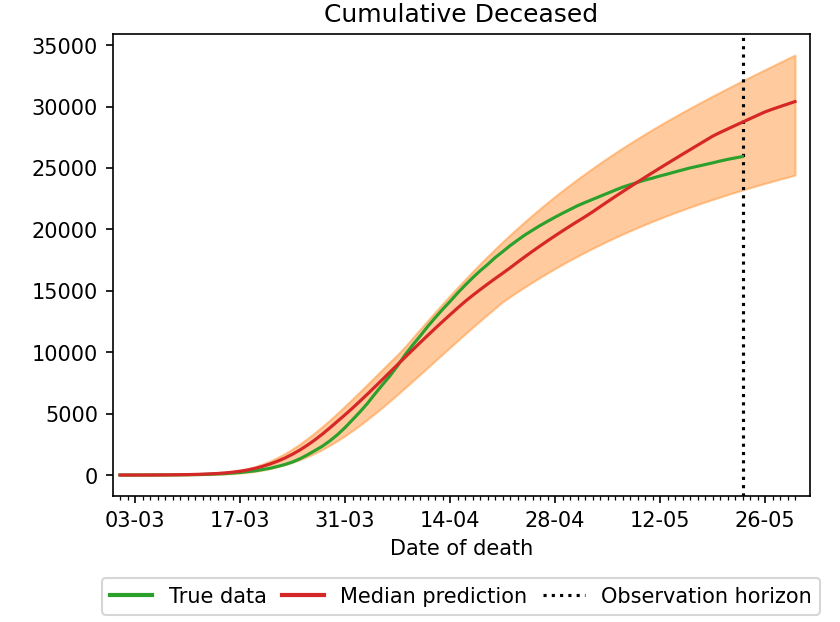
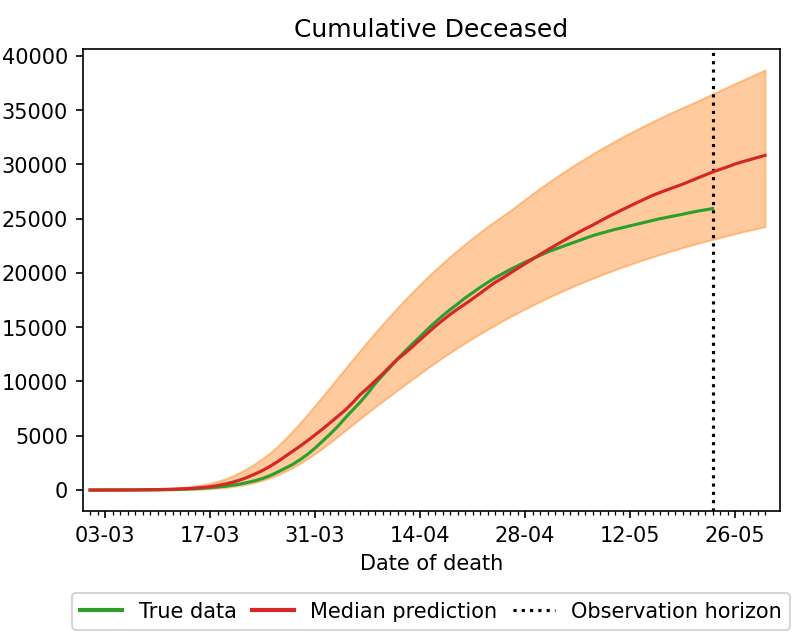
Update website

Changed region(s): [[0.0, 0.0, 0.958, 1.0], [0.7417, 0.2138, 0.7726, 0.2444]]

diff --git a/docs/searchindex.js b/docs/searchindex.js
@@ -1,1 +1,1 @@
-Search.setIndex({docnames:["Data","FAQ","Inference","Model","Prediction","index"],envversion:{"sphinx.domains.c":2,"sphinx.domains.changeset":1,"sphinx.domains.citation":1,"sphinx.domains.cpp":2,"sphinx.domains.index":1,"sphinx.domains.javascript":2,"sphinx.domains.math":2,"sphinx.domains.python":2,"sphinx.domains.rst":2,"sphinx.domains.std":1,"sphinx.ext.todo":2,"sphinx.ext.viewcode":1,sphinx:56},filenames:["Data.rst","FAQ.rst","Inference.rst","Model.rst","Prediction.rst","index.rst"],objects:{},objnames:{},objtypes:{},terms:{"10th":[],"11th":[],"13th":[],"15th":[],"16th":[],"18th":0,"1st":0,"20023754v2":[],"20th":1,"23rd":5,"9th":[],"case":[1,4],"catch":[1,3,4],"final":[1,3],"function":2,"int":2,"long":[1,4],"new":[],"public":5,"short":[],"true":[1,2],"while":[3,4],For:[2,4],Has:[],NHS:[0,1],ODEs:3,ONS:[0,1],The:[0,1,2,3,4,5],Then:[],Using:1,_assumpt:[],abc:[1,2],abcpi:[1,2],abl:[1,3,4],about:[0,4,5],abov:[0,1,2],abroad:3,absenc:2,accept:2,access:3,accord:[0,3],account:[0,1],accur:1,accuraci:1,act:5,action:[],activ:[],actual:[1,4],adam:1,add:1,addit:0,admit:[1,4],affect:[],after:3,afterward:3,again:3,age:[0,5],aggreg:0,ago:[],aim:5,algorithm:2,all:[1,3],allow:[1,2],along:3,alpha:3,alpha_:3,also:[0,1],alwai:[],amount:[1,2],android:0,ani:3,announc:[],anoth:[],answer:5,anymor:4,anyon:1,anywai:[1,4],anywher:1,appli:1,approach:[],approxim:[1,2,3,4],april:1,area:[1,4],aris:1,articl:[],assist:[],assum:[1,3],assumpt:4,asymptomat:[],attent:3,author:[],avail:[0,1],averag:3,awar:1,axi:[],back:[],band:[0,4],base:[1,2,3,5],basic:[],bayesian:[1,2,4],bbc:0,becam:[],becom:3,bed:[1,4],been:[],befor:3,being:[0,1,3,4],below:[],besid:0,best:[2,5],beta:3,better:1,between:[1,2,3],blur:[],both:[],brought:3,c_i:[],c_uk:[],calibr:[1,2,5],call:1,can:[3,4],cannot:[1,4],capabl:[],capac:[],care:[],categori:3,cdot:2,censu:1,central:1,certain:[],chang:[0,1,4],check:[0,1,3,4],children:3,choic:1,choos:3,citizen:[],clear:[],clearli:1,clinic:3,close:[1,2,3],closur:0,code:[],collect:[],com:[],combin:0,come:[],comment:[],commonli:1,commut:1,compar:[],compart:[1,3],compartment:[1,3],complex:[],compli:[],complianc:[],compos:3,comput:[1,2,4],computation:[],concentr:2,conclud:[],conclus:[],condit:[1,3,4],conduct:1,confer:0,confirm:[1,2],conjuct:2,connect:3,consid:[0,1,3,4],constant:[1,4],construct:[],contact:[0,1,3],contain:1,content:[],continu:[],contribut:3,control:5,converg:2,convers:0,coronaviru:[],correspond:3,correspondingli:[],cost:2,could:1,count:[],cours:[1,2,4],covid:0,creat:[1,5],crisi:5,critic:[],cross:[],cumul:[],cumulative_confirm:[],current:1,curv:[],cut:5,d_c:3,d_d:3,d_l:3,d_r:3,dai:[1,3,4],daili:[0,1,2,5],daily_confirm:[],dant:1,data:[1,3,4,5],dataset:[0,2],dataspac:2,date:[1,4],dd_i:3,de_i:3,death:[0,1,3,5],debat:[1,4],deceas:[2,3],decid:5,declar:0,decreas:2,defin:[2,3],denot:[2,3,4],densiti:2,depart:[],depend:[3,4],dept:1,describ:[1,3],descript:3,design:1,detail:[0,1,4],determinist:1,develop:1,devic:0,diagnos:[1,3],diagnosi:[],die:[],differ:3,differenti:3,direct:[],directli:3,discours:5,discuss:[0,1],diseas:[0,1,3,4,5],distinct:[],distribut:[0,2,3,4],divid:1,don:[],done:4,dot:4,down:[],dpag_imag:[],dpd_imag:[],dr_i:3,draft:[],draw:2,ds_i:3,due:1,dutta:1,dying:[],dynam:[0,1,3,4],e_i:3,each:[0,1,3],earli:[],edg:5,effect:[0,1,3],effici:2,either:[],eldelri:[],element:1,els:1,emerg:1,end:1,england:[0,1,3],english:1,epdiem:[],epidem:[0,1,2,4,5],epsilon:2,equal:[],equat:3,error:[],especi:[],essenti:[2,3],estim:[0,1,4],etc:1,evalu:[],even:[1,4],eventu:1,everi:1,evolut:5,exact:1,exampl:[],except:3,exit:1,exp:[],expect:[1,4],expertis:[],explain:[1,3],explan:[],explicitli:[1,4],exploit:[],expos:3,extend:[],extens:1,extent:1,extrem:1,fact:1,fair:1,famili:[],featur:1,fill:0,finer:0,first:4,fit:[1,4],five:[],fix:[2,3],flight:3,fluid:1,focus:[],follow:[0,2,3,4],forecast:1,format:[],found:[],four:[1,3],frac:3,free:2,frequenc:3,from:[0,2,3,4],full:[],fundament:2,further:[1,3],futur:1,gamma_:3,gamma_r:3,gener:2,geograph:0,get:[],github:[],give:0,given:1,global:1,going:3,gome:1,googl:[0,1,3],gov:[],govern:0,graph:1,great:[1,4],greatest:1,group:[0,3],guarante:2,guidanc:[],had:[],handl:1,happen:[0,3,4],happi:1,hard:1,harder:1,has:1,have:4,health:1,hear:1,help:[3,5],henc:3,here:[0,1,2,3],high:2,higher:[],home:3,hope:1,horizon:[1,4],horizont:4,hospit:[0,1,3,5],hospitalis:1,how:[0,5],howev:[0,1,4],hpd:[],http:[],i_c:[],i_i:3,i_j:3,icu:[1,4],ihm:[],imag:[],img:[],impact:[0,1,4],implement:0,impos:[],improv:1,inabl:1,includ:[],incom:3,increas:2,incub:3,independ:[],index:[],indic:4,individu:[2,3],infect:[1,2,3,4],infecti:3,infer:5,inform:[0,1],initi:3,inspir:[],instanc:[0,1,3],instead:[1,3],institut:[],integr:1,intens:[],interact:1,interest:[],interpret:[],intract:2,introduc:0,invalid:1,isol:[1,3,4],issu:[],iter:2,its:[],jointli:2,journal:[],june:[],kalis:1,kappa:3,kei:4,kept:[1,4],kid:0,kiesha:1,kind:1,klepac:0,know:[0,1],known:[],kucharski:1,lab:[],larg:[1,2,4],last:[],latent:3,later:[],latest:1,latter:0,learn:1,learnt:1,least:[],leq:2,less:[1,2,4],level:[],leverag:[],librari:2,like:1,likelihood:2,line:4,link:[],local:1,locat:3,lock:[],lockdown:[0,1,3],logist:3,longer:1,look:2,lorenzo:1,lot:4,machin:[],mai:[1,5],main:1,major:[],make:[0,1],maker:5,mani:[0,1],march:0,mass:2,match:0,materi:0,math:[],mathbb:2,mathbf:2,mathcal:2,mathemat:1,matric:0,matrix:[0,3],matter:[1,4],mean:3,measur:[0,1,2,4],media:5,median:4,medic:3,medrxiv:[],meet:1,mention:[],metapopul:[],method:1,metric:2,mid:0,midpoint:[],minist:0,miss:0,misspecifi:1,mitig:2,mix:1,mobil:[0,1,3],model:[0,2,4,5],momr:[],more:[0,1,2,4],moreov:[0,1,3,4],most:[0,1],mostli:[1,3],motiv:[],move:3,much:[1,4],multipli:[],multistag:[],n_j:3,name:1,nation:1,natur:1,need:[0,1,2,3,4],neglect:[],next:3,nil:[],nobodi:1,nois:[],nonlinear:[],note:4,notic:[],nottingham:1,now:[],number:[0,1,2,3,5],obs:2,observ:[1,2,4],obtain:[0,2],occup:[1,4],occur:3,occurr:[],offic:1,offici:0,old:0,older:[],oldest:3,omega:[],onc:[1,4],one:[1,2,3],ones:[0,3],onli:[],ons:[],optim:1,orang:[1,4],order:[0,3],ordinari:3,org:[],other:[2,3],otherwis:2,our:[0,3,4],out:[],outcom:[1,3],over:[0,3],overal:1,overli:[],oxford:1,pacchiardi:1,page:1,pair:2,pandem:[0,5],paper:0,paradigm:1,parallel:2,paramet:[0,1,2,3],parametr:3,part:[1,4],partial:1,passeng:3,patient:3,pattern:1,pcbi:[],peak:[],peopl:[0,1,3],peoplepopulationandcommun:[],per:4,percent:1,perfect:[],perfectli:1,perform:2,period:3,person:[1,4],persona:[],phase:4,phe:1,phenomena:1,phi:3,physic:0,pillar:[],place:[1,4],plan:[],pleas:[0,1,4],plo:[],ploscompbiol:[],plot:[],png:[],pointwis:[],polici:5,polymod:0,popul:[0,1,3,4],populationandmigr:[],populationestim:[],populationestimatesforukenglandandwalesscotlandandnorthernireland:[],posit:[1,4],possibl:[1,3],posterior:[],power:1,predict:[2,4,5],prem:[1,3],present:[0,1,3],presenti:[],press:0,prime:0,principl:2,prior:[0,2],probabl:[1,2,3],procedur:[],process:[],profil:[],progress:5,project:[0,5],proport:2,propos:[],provid:[0,1],publicli:[],put:[],python:2,quad:[],quantif:2,quantiti:[],question:5,quit:1,rang:[1,2],rate:[1,3,4],rather:[],reach:3,readabl:[],real:1,realiti:1,realiz:[],reason:[],recent:[0,1],record:[],recov:3,recoveri:3,reduc:3,reduct:3,ref:[],refer:[],reflect:[0,1,3],regard:[],region:[],regist:[],regularli:1,reject:2,rel:0,relat:0,reli:1,remain:[1,4],remark:[],reopen:1,report:[0,4],repositori:[],repres:3,reproduct:[],requir:0,respect:3,respond:[],restrict:[0,1,4],result:[3,5],retail:1,rho:3,rho_i:3,right:[],ritabrata:1,rout:1,s_i:3,sadli:[],said:1,same:1,sampl:2,satisfi:1,satur:[1,4],sc1:3,sc2:3,scenario:3,scheme:2,school:[0,1,3],scienc:[1,5],scientif:2,second:1,see:1,seed:3,seen:[],self:[],separ:0,servic:1,set:1,seven:[],sever:1,shade:[1,4],shortli:[],show:1,shown:1,significantli:[],sim:2,similar:1,similari:3,similarli:3,simplif:1,simplifi:[],simul:2,singular:[],situat:1,size:0,slightli:[],slope:[],smaller:2,smoother:[],social:3,softwar:1,some:[1,3],sort:[],sourc:[1,4,5],specif:1,specimen:[],spend:[],split:3,spread:[3,5],stai:[],stand:3,start:[1,3],state:3,statist:1,step:2,still:[1,3,4],strategi:[1,3],stratif:0,structur:5,studi:0,sub:3,subclin:3,suggest:1,suit:[],suitabl:0,sum:[],sum_j:3,support:0,susana:1,suscept:[1,3,4],symptom:1,symptomat:[],synthet:2,tab1:[],tab2:[],tab:[],tailor:1,take:[0,1,3],tan:[],tangent:[],td_imag:[],techniqu:[],test:[1,4],than:0,thei:[0,1,3,4],them:[0,2,3],themselv:[],theori:[],thereaft:[],therefor:[0,1,3],theta:2,thi:[0,2,3,4,5],thig:[],thing:[],third:1,those:0,thought:1,three:1,threshold:2,through:3,thu:[1,2],time:[1,3,4,5],timelin:0,titl:[],too:[1,4],total:4,transform:3,transit:3,transmiss:0,transmit:[1,4],transpar:5,tri:1,truth:1,tune:0,twice:[1,4],two:[0,3,4],type:[],uncertainti:[2,4],under:4,undergo:3,underli:1,understand:[0,1],understood:[],univers:1,until:1,updat:[1,5],use:[0,1,2,4],used:[0,1,3,4],useful:1,using:[2,3],valu:[1,2,3,4],variat:[],veri:[],versu:4,vertic:4,visibl:1,visual:3,wai:1,warwick:1,webpag:[],websit:1,week:[],weekdai:0,weekend:0,well:1,were:[1,4],what:[],when:[1,2,3,4],whenev:[],where:[1,2,3],wherea:1,which:[1,2,3,4],who:3,whole:[1,3],whose:0,why:[],wider:[],width:4,wilkinson:[],within:1,work:[0,2,3,5],worker:[1,3],workplac:3,would:[0,1,4],written:2,www:[],x_0:3,x_i:[],year:0,yet:[],you:1,younger:0,youngest:3},titles:["Public Data Sources","Questions and Answers (for the public and media)","Inference","Epidemic Model","Inference results for England (Updated on 23rd May)","COVID-19 in England"],titleterms:{"10th":[],"11th":[],"23rd":4,"3rd":[],"4rd":3,"case":[],"import":[],"public":[0,1],Age:4,Are:1,about:1,accord:[],age:[3,4],ani:1,answer:1,april:[],assumpt:1,base:[],been:1,behind:1,can:1,caveat:1,conclus:[],confirm:[],correct:1,covid:[1,5],daili:[],data:0,death:4,deceas:[],differ:1,doe:1,dure:[],each:4,england:[4,5],epidem:3,estim:[],evolut:[],first:1,free:[],from:1,gener:1,get:1,group:4,have:1,hospit:4,how:1,infect:[],infer:[2,4],interpret:[],likelihood:[],look:[],lot:[],made:1,mai:4,mean:1,media:1,model:[1,3],more:[],most:[],number:4,other:1,our:1,pandem:[],paramet:[],peopl:4,phase:1,predict:1,probabl:4,project:1,question:1,r_0:[],research:1,result:4,scari:[],sei:3,should:[],sourc:0,specif:4,spread:1,structur:3,studi:1,sure:1,than:[],thi:1,total:[],touch:1,transit:[],uncertainti:1,updat:4,what:1,why:[],you:[],your:[]}})
+Search.setIndex({docnames:["Data","FAQ","Inference","Model","Prediction","index"],envversion:{"sphinx.domains.c":2,"sphinx.domains.changeset":1,"sphinx.domains.citation":1,"sphinx.domains.cpp":2,"sphinx.domains.index":1,"sphinx.domains.javascript":2,"sphinx.domains.math":2,"sphinx.domains.python":2,"sphinx.domains.rst":2,"sphinx.domains.std":1,"sphinx.ext.todo":2,"sphinx.ext.viewcode":1,sphinx:56},filenames:["Data.rst","FAQ.rst","Inference.rst","Model.rst","Prediction.rst","index.rst"],objects:{},objnames:{},objtypes:{},terms:{"10th":[],"11th":[],"13th":[],"15th":[],"16th":[],"18th":0,"1st":0,"20023754v2":[],"20th":[],"23rd":5,"9th":[],"case":[1,4],"catch":[1,3,4],"final":[1,3],"function":2,"int":2,"long":[1,4],"new":[],"public":5,"short":[],"true":[1,2],"while":[3,4],For:[2,4],Has:[],NHS:[0,1],ODEs:3,ONS:[0,1],The:[0,1,2,3,4,5],Then:[],Using:1,_assumpt:[],abc:[1,2],abcpi:[1,2],abl:[1,3,4],about:[0,4,5],abov:[0,1,2],abroad:3,absenc:2,accept:2,access:3,accord:[0,3],account:[0,1],accur:1,accuraci:1,act:5,action:[],activ:[],actual:[1,4],adam:1,add:1,addit:0,admit:[1,4],affect:[],after:3,afterward:3,again:3,age:[0,5],aggreg:0,ago:[],aim:5,algorithm:2,all:[1,3],allow:[1,2],along:3,alpha:3,alpha_:3,also:[0,1],alwai:[],amount:[1,2],android:0,ani:3,announc:[],anoth:[],answer:5,anymor:4,anyon:1,anywai:[1,4],anywher:1,appli:1,approach:[],approxim:[1,2,3,4],april:[],area:[1,4],aris:1,articl:[],assist:[],assum:[1,3],assumpt:4,asymptomat:[],attent:3,author:[],avail:[0,1],averag:3,awar:1,axi:[],back:[],band:[0,4],base:[1,2,3,5],basic:[],bayesian:[1,2,4],bbc:0,becam:[],becom:3,bed:[1,4],been:[],befor:3,being:[0,1,3,4],below:[],besid:0,best:[2,5],beta:3,better:1,between:[1,2,3],blur:[],both:[],brought:3,c_i:[],c_uk:[],calibr:[1,2,5],call:1,can:[3,4],cannot:[1,4],capabl:[],capac:[],care:[],categori:3,cdot:2,censu:1,central:1,certain:[],chang:[0,1,4],check:[0,1,3,4],children:3,choic:1,choos:3,citizen:[],clear:[],clearli:1,clinic:3,close:[1,2,3],closur:0,code:[],collect:[],com:[],combin:0,come:[],comment:[],commonli:1,commut:1,compar:[],compart:[1,3],compartment:[1,3],complex:[],compli:[],complianc:[],compos:3,comput:[1,2,4],computation:[],concentr:2,conclud:[],conclus:[],condit:[1,3,4],conduct:1,confer:0,confirm:[1,2],conjuct:2,connect:3,consid:[0,1,3,4],constant:[1,4],construct:[],contact:[0,1,3],contain:1,content:[],continu:[],contribut:3,control:5,converg:2,convers:0,coronaviru:[],correspond:3,correspondingli:[],cost:2,could:1,count:[],cours:[1,2,4],covid:0,creat:[1,5],crisi:5,critic:[],cross:[],cumul:[],cumulative_confirm:[],current:1,curv:[],cut:5,d_c:3,d_d:3,d_l:3,d_r:3,dai:[1,3,4],daili:[0,1,2,5],daily_confirm:[],dant:1,data:[1,3,4,5],dataset:[0,2],dataspac:2,date:[1,4],dd_i:3,de_i:3,death:[0,1,3,5],debat:[1,4],deceas:[2,3],decid:5,declar:0,decreas:2,defin:[2,3],denot:[2,3,4],densiti:2,depart:[],depend:[3,4],dept:1,describ:[1,3],descript:3,design:1,detail:[0,1,4],determinist:1,develop:1,devic:0,diagnos:[1,3],diagnosi:[],die:[],differ:3,differenti:3,direct:[],directli:3,discours:5,discuss:[0,1],diseas:[0,1,3,4,5],distinct:[],distribut:[0,2,3,4],divid:1,don:[],done:4,dot:4,down:[],dpag_imag:[],dpd_imag:[],dr_i:3,draft:[],draw:2,ds_i:3,due:1,dutta:1,dying:[],dynam:[0,1,3,4],e_i:3,each:[0,1,3],earli:[],edg:5,effect:[0,1,3],effici:2,either:[],eldelri:[],element:1,els:1,emerg:1,end:1,england:[0,1,3],english:1,epdiem:[],epidem:[0,1,2,4,5],epsilon:[],equal:[],equat:3,error:[],especi:[],essenti:[2,3],estim:[0,1,4],etc:1,evalu:[],even:[1,4],eventu:1,everi:1,evolut:5,exact:1,exampl:[],except:3,exit:1,exp:[],expect:[1,4],expertis:[],explain:[1,3],explan:[],explicitli:[1,4],exploit:[],expos:3,extend:[],extens:1,extent:1,extrem:1,fact:1,fair:1,famili:[],featur:1,fill:0,finer:0,first:4,fit:[1,4],five:[],fix:[2,3],flight:3,fluid:1,focus:[],follow:[0,2,3,4],forecast:1,format:[],found:[],four:[1,3],frac:3,free:2,frequenc:3,from:[0,2,3,4],full:[],fundament:2,further:[1,3],futur:1,gamma:2,gamma_:3,gamma_r:3,gener:2,geograph:0,get:[],github:[],give:0,given:1,global:1,going:3,gome:1,googl:[0,1,3],gov:[],govern:0,graph:1,great:[1,4],greatest:1,group:[0,3],guarante:2,guidanc:[],had:[],handl:1,happen:[0,3,4],happi:1,hard:1,harder:1,has:1,have:4,health:1,hear:1,help:[3,5],henc:3,here:[0,1,2,3],high:2,higher:[],home:3,hope:1,horizon:[1,4],horizont:4,hospit:[0,1,3,5],hospitalis:1,how:[0,5],howev:[0,1,4],hpd:[],http:[],i_c:[],i_i:3,i_j:3,icu:[1,4],ihm:[],imag:[],img:[],impact:[0,1,4],implement:0,impos:[],improv:1,inabl:1,includ:[],incom:3,increas:2,incub:3,independ:[],index:[],indic:4,individu:[2,3],infect:[1,2,3,4],infecti:3,infer:5,inform:[0,1],initi:3,inspir:[],instanc:[0,1,3],instead:[1,3],institut:[],integr:1,intens:[],interact:1,interest:[],interpret:[],intract:2,introduc:0,invalid:1,isol:[1,3,4],issu:[],iter:2,its:[],jointli:2,journal:[],june:1,kalis:1,kappa:3,kei:4,kept:[1,4],kid:0,kiesha:1,kind:1,klepac:0,know:[0,1],known:[],kucharski:1,lab:[],larg:[1,2,4],last:[],latent:3,later:[],latest:1,latter:0,learn:1,learnt:1,least:[],leq:2,less:[1,2,4],level:[],leverag:[],librari:2,like:1,likelihood:2,line:4,link:[],local:1,locat:3,lock:[],lockdown:[0,1,3],logist:3,longer:1,look:2,lorenzo:1,lot:4,machin:[],mai:[1,5],main:1,major:[],make:[0,1],maker:5,mani:[0,1],march:0,mass:2,match:0,materi:0,math:[],mathbb:2,mathbf:2,mathcal:2,mathemat:1,matric:0,matrix:[0,3],matter:[1,4],mean:3,measur:[0,1,2,4],media:5,median:4,medic:3,medrxiv:[],meet:1,mention:[],metapopul:[],method:1,metric:2,mid:[0,1],midpoint:[],minist:0,miss:0,misspecifi:1,mitig:2,mix:1,mobil:[0,1,3],model:[0,2,4,5],momr:[],more:[0,1,2,4],moreov:[0,1,3,4],most:[0,1],mostli:[1,3],motiv:[],move:3,much:[1,4],multipli:[],multistag:[],n_j:3,name:1,nation:1,natur:1,need:[0,1,2,3,4],neglect:[],next:3,nil:[],nobodi:1,nois:[],nonlinear:[],note:4,notic:[],nottingham:1,now:[],number:[0,1,2,3,5],obs:2,observ:[1,2,4],obtain:[0,2],occup:[1,4],occur:3,occurr:[],offic:1,offici:0,old:0,older:[],oldest:3,omega:[],onc:[1,4],one:[1,2,3],ones:[0,3],onli:[],ons:[],optim:1,orang:[1,4],order:[0,3],ordinari:3,org:[],other:[2,3],otherwis:2,our:[0,3,4],out:[],outcom:[1,3],over:[0,3],overal:1,overli:[],oxford:1,pacchiardi:1,page:1,pair:2,pandem:[0,5],paper:0,paradigm:1,parallel:2,paramet:[0,1,2,3],parametr:3,part:[1,4],partial:1,passeng:3,patient:3,pattern:1,pcbi:[],peak:[],peopl:[0,1,3],peoplepopulationandcommun:[],per:4,percent:[],perfect:[],perfectli:1,perform:2,period:3,person:[1,4],persona:[],phase:4,phe:1,phenomena:1,phi:3,physic:0,pillar:[],place:[1,4],plan:[],pleas:[0,1,4],plo:[],ploscompbiol:[],plot:[],png:[],pointwis:[],polici:5,polymod:0,popul:[0,1,3,4],populationandmigr:[],populationestim:[],populationestimatesforukenglandandwalesscotlandandnorthernireland:[],posit:[1,4],possibl:[1,3],posterior:[],power:1,predict:[2,4,5],prem:[1,3],present:[0,1,3],presenti:[],press:0,prime:0,principl:2,prior:[0,2],probabl:[1,2,3],procedur:[],process:[],profil:[],progress:5,project:[0,5],proport:2,propos:[],provid:[0,1],publicli:[],put:[],python:2,quad:[],quantif:2,quantiti:[],question:5,quit:1,rang:[1,2],rate:[1,3,4],rather:[],reach:3,readabl:[],real:1,realiti:1,realiz:[],reason:[],recent:[0,1],record:[],recov:3,recoveri:3,reduc:3,reduct:3,ref:[],refer:[],reflect:[0,1,3],regard:[],region:[],regist:[],regularli:1,reject:2,rel:0,relat:0,reli:1,remain:[1,4],remark:[],reopen:1,report:[0,4],repositori:[],repres:3,reproduct:[],requir:0,respect:3,respond:[],restrict:[0,1,4],result:[3,5],retail:1,rho:3,rho_i:3,right:[],ritabrata:1,rout:1,s_i:3,sadli:[],said:1,same:1,sampl:2,satisfi:1,satur:[1,4],sc1:3,sc2:3,scenario:3,scheme:2,school:[0,1,3],scienc:[1,5],scientif:2,second:1,see:1,seed:3,seen:[],self:[],separ:0,servic:1,set:1,seven:[],sever:1,shade:[1,4],shortli:[],show:1,shown:1,significantli:[],sim:2,similar:1,similari:3,similarli:3,simplif:1,simplifi:[],simul:2,singular:[],situat:1,size:0,slightli:[],slope:[],smaller:2,smoother:[],social:3,softwar:1,some:[1,3],sort:[],sourc:[1,4,5],specif:1,specimen:[],spend:[],split:3,spread:[3,5],stai:[],stand:3,start:[1,3],state:3,statist:1,step:2,still:[1,3,4],strategi:[1,3],stratif:0,structur:5,studi:0,sub:3,subclin:3,suggest:1,suit:[],suitabl:0,sum:[],sum_j:3,support:0,susana:1,suscept:[1,3,4],symptom:1,symptomat:[],synthet:2,tab1:[],tab2:[],tab:[],tailor:1,take:[0,1,3],tan:[],tangent:[],td_imag:[],techniqu:[],test:[1,4],than:0,thei:[0,1,3,4],them:[0,2,3],themselv:[],theori:[],thereaft:[],therefor:[0,1,3],theta:2,thi:[0,2,3,4,5],thig:[],thing:[],third:1,those:0,thought:1,three:1,threshold:2,through:3,thu:[1,2],time:[1,3,4,5],timelin:0,titl:[],too:[1,4],total:4,transform:3,transit:3,transmiss:0,transmit:[1,4],transpar:5,tri:1,truth:1,tune:0,twice:[1,4],two:[0,3,4],type:[],uncertainti:[2,4],under:4,undergo:3,underli:1,understand:[0,1],understood:[],univers:1,until:1,updat:[1,5],use:[0,1,2,4],used:[0,1,3,4],useful:1,using:[2,3],valu:[1,2,3,4],variat:[],veri:[],versu:4,vertic:4,visibl:1,visual:3,wai:1,warwick:1,webpag:[],websit:1,week:[],weekdai:0,weekend:0,well:1,were:[1,4],what:[],when:[1,2,3,4],whenev:[],where:[1,2,3],wherea:1,which:[1,2,3,4],who:3,whole:[1,3],whose:0,why:[],wider:[],width:4,wilkinson:[],within:1,work:[0,2,3,5],worker:[1,3],workplac:3,would:[0,1,4],written:2,www:[],x_0:3,x_i:[],year:0,yet:[],you:1,younger:0,youngest:3},titles:["Public Data Sources","Questions and Answers (for the public and media)","Inference","Epidemic Model","Inference results for England (Updated on 23rd May)","COVID-19 in England"],titleterms:{"10th":[],"11th":[],"23rd":4,"3rd":[],"4rd":3,"case":[],"import":[],"public":[0,1],Age:4,Are:1,about:1,accord:[],age:[3,4],ani:1,answer:1,april:[],assumpt:1,base:[],been:1,behind:1,can:1,caveat:1,conclus:[],confirm:[],correct:1,covid:[1,5],daili:[],data:0,death:4,deceas:[],differ:1,doe:1,dure:[],each:4,england:[4,5],epidem:3,estim:[],evolut:[],first:1,free:[],from:1,gener:1,get:1,group:4,have:1,hospit:4,how:1,infect:[],infer:[2,4],interpret:[],likelihood:[],look:[],lot:[],made:1,mai:4,mean:1,media:1,model:[1,3],more:[],most:[],number:4,other:1,our:1,pandem:[],paramet:[],peopl:4,phase:1,predict:1,probabl:4,project:1,question:1,r_0:[],research:1,result:4,scari:[],sei:3,should:[],sourc:0,specif:4,spread:1,structur:3,studi:1,sure:1,than:[],thi:1,total:[],touch:1,transit:[],uncertainti:1,updat:4,what:1,why:[],you:[],your:[]}})

diff --git a/docs/Inference.html b/docs/Inference.html
@@ -44,12 +44,12 @@
 <ul class="simple">
 <li><p>Draw <span class="math notranslate nohighlight">\(\theta\)</span> from the prior <span class="math notranslate nohighlight">\(\pi(\theta)\)</span>.</p></li>
 <li><p>Simulate a synthetic dataset <span class="math notranslate nohighlight">\(\mathbf{x}^{sim}\)</span> from the simulator-based model <span class="math notranslate nohighlight">\(\mathcal{M}(\theta)\)</span>.</p></li>
-<li><p>Accept the parameter value <span class="math notranslate nohighlight">\(\theta\)</span> if <span class="math notranslate nohighlight">\(\mathbf{d}(\mathbf{x}^{sim},\mathbf{x}^{obs}) &lt; \epsilon\)</span>. Otherwise, reject <span class="math notranslate nohighlight">\(\theta\)</span>.</p></li>
+<li><p>Accept the parameter value <span class="math notranslate nohighlight">\(\theta\)</span> if <span class="math notranslate nohighlight">\(\mathbf{d}(\mathbf{x}^{sim},\mathbf{x}^{obs}) &lt; \gamma\)</span>. Otherwise, reject <span class="math notranslate nohighlight">\(\theta\)</span>.</p></li>
 </ul>
 <img alt="_images/ABC_rejection.png" src="_images/ABC_rejection.png" />
-<p>Here, the metric on the dataspace <span class="math notranslate nohighlight">\(\mathbf{d}(\mathbf{x}^{sim},\mathbf{x}^{obs})\)</span> measures the closeness between <span class="math notranslate nohighlight">\(\mathbf{x}^{sim}\)</span> and <span class="math notranslate nohighlight">\(\mathbf{x}^{obs}\)</span>. The accepted <span class="math notranslate nohighlight">\((\theta,\mathbf{x}^{sim})\)</span> pairs are thus jointly sampled from a distribution proportional to <span class="math notranslate nohighlight">\(\pi(\theta)p_{\mathbf{d},\epsilon}(\mathbf{x}^{obs}|\theta)\)</span>, where <span class="math notranslate nohighlight">\(p_{\mathbf{d},\epsilon}(\mathbf{x}^{obs}|\theta)\)</span> is an approximation to the intractable likelihood function <span class="math notranslate nohighlight">\(p(\mathbf{x}^{obs}|\theta)\)</span></p>
+<p>Here, the metric on the dataspace <span class="math notranslate nohighlight">\(\mathbf{d}(\mathbf{x}^{sim},\mathbf{x}^{obs})\)</span> measures the closeness between <span class="math notranslate nohighlight">\(\mathbf{x}^{sim}\)</span> and <span class="math notranslate nohighlight">\(\mathbf{x}^{obs}\)</span>. The accepted <span class="math notranslate nohighlight">\((\theta,\mathbf{x}^{sim})\)</span> pairs are thus jointly sampled from a distribution proportional to <span class="math notranslate nohighlight">\(\pi(\theta)p_{\mathbf{d},\gamma}(\mathbf{x}^{obs}|\theta)\)</span>, where <span class="math notranslate nohighlight">\(p_{\mathbf{d},\gamma}(\mathbf{x}^{obs}|\theta)\)</span> is an approximation to the intractable likelihood function <span class="math notranslate nohighlight">\(p(\mathbf{x}^{obs}|\theta)\)</span></p>
 <p class="centered">
-<strong><span class="math notranslate nohighlight">\(p_{\mathbf{d}, \epsilon}(\mathbf{x}^{obs}|\theta) = \int p(\mathbf{x}^{sim}|\theta) \mathbb{K}_{\epsilon}(\mathbf{d}(\mathbf{x}^{sim},\mathbf{x}^{obs}))  d\mathbf{x}^{sim}\)</span></strong></p><p>proportional to <span class="math notranslate nohighlight">\(P(\mathbf{d}(\mathbf{x}^{sim},\mathbf{x}^{obs})\leq\epsilon)\)</span>. In general, <span class="math notranslate nohighlight">\(\mathbb{K}_{\epsilon}(\cdot)\)</span> needs to be a probability density function with a large concentration of mass near 0, in which the parameter <span class="math notranslate nohighlight">\(\epsilon\)</span> denotes the amount of concentration (the smaller <span class="math notranslate nohighlight">\(\epsilon\)</span>, the more concentrated the density is). This guarantees that, in principle, the above approximate likelihood converges to the true one when <span class="math notranslate nohighlight">\(\epsilon \to 0\)</span>. Of course, decreasing the threshold increases the computational cost, as less simulations will be accepted. This is mitigated by efficient ABC algorithms in conjuction with High Performance Computing in <a class="reference external" href="https://github.com/eth-cscs/abcpy">ABCpy</a>.</p>
+<strong><span class="math notranslate nohighlight">\(p_{\mathbf{d}, \gamma}(\mathbf{x}^{obs}|\theta) = \int p(\mathbf{x}^{sim}|\theta) \mathbb{K}_{\gamma}(\mathbf{d}(\mathbf{x}^{sim},\mathbf{x}^{obs}))  d\mathbf{x}^{sim}\)</span></strong></p><p>proportional to <span class="math notranslate nohighlight">\(P(\mathbf{d}(\mathbf{x}^{sim},\mathbf{x}^{obs})\leq\gamma)\)</span>. In general, <span class="math notranslate nohighlight">\(\mathbb{K}_{\gamma}(\cdot)\)</span> needs to be a probability density function with a large concentration of mass near 0, in which the parameter <span class="math notranslate nohighlight">\(\gamma\)</span> denotes the amount of concentration (the smaller <span class="math notranslate nohighlight">\(\gamma\)</span>, the more concentrated the density is). This guarantees that, in principle, the above approximate likelihood converges to the true one when <span class="math notranslate nohighlight">\(\gamma \to 0\)</span>. Of course, decreasing the threshold increases the computational cost, as less simulations will be accepted. This is mitigated by efficient ABC algorithms in conjuction with High Performance Computing in <a class="reference external" href="https://github.com/eth-cscs/abcpy">ABCpy</a>.</p>
 </div>
 <div class="tab-content docutils container" id="tab-tab2">
 <p class="tab-title">ABCpy</p>

diff --git a/docs/FAQ.html b/docs/FAQ.html
@@ -41,7 +41,7 @@
 <div class="section" id="what-is-this-project">
 <h3>1. What is this project?<a class="headerlink" href="#what-is-this-project" title="Permalink to this headline">¶</a></h3>
 <p>“Optimal Lockdown” is a project conducted by researchers at the universities of Warwick, Oxford and Nottingham. It has three phases.</p>
-<p>In the first phase - visible as of 20th April 2020 on this website - we have developed an <strong>epidemic model to understand the spread of COVID-19 in England</strong>. This model is tailored to the English situation and calibrated with approximate Bayesian computation (ABC). The model has been developed by Lorenzo Pacchiardi (Dept. of Statistics, University of Oxford) and <a class="reference external" href="https://warwick.ac.uk/fac/sci/statistics/staff/academic-research/dutta/">Dr. Ritabrata Dutta</a> (Dept. of Statistics, University of Warwick).</p>
+<p>In the first phase - visible as of mid June 2020 on this website - we have developed an <strong>epidemic model to understand the spread of COVID-19 in England</strong>. This model is tailored to the situation of England and calibrated with approximate Bayesian computation (ABC). The model has been developed by Lorenzo Pacchiardi (Dept. of Statistics, University of Oxford) and <a class="reference external" href="https://warwick.ac.uk/fac/sci/statistics/staff/academic-research/dutta/">Dr. Ritabrata Dutta</a> (Dept. of Statistics, University of Warwick).</p>
 <p>In the second phase, this model will be improved by integrating data about commuting patterns in England.</p>
 <p>In the third phase of the project, <a class="reference external" href="https://warwick.ac.uk/fac/sci/maths/people/staff/gomes/">Dr. Susana Gomes</a> (Dept. of Mathematics, University of Warwick) and <a class="reference external" href="https://sites.google.com/view/dkalise">Dr. Dante Kalise</a> (School of Mathematical Sciences, University of Nottingham) will use these models to <strong>design an optimal lockdown for England</strong> (e.g., what commuting routes to allow, what retail to close, etc.) and <strong>how to exit lockdown</strong> (what and when to reopen). The exit strategy will be updated daily based on the latest data available.</p>
 <p>We use data on the spread of COVID-19 in England provided by Public Health England (PHE), the National Health Service (NHS) and the Office for National Statistics (ONS). We also integrate <a class="reference external" href="https://www.google.com/covid19/mobility/">Google mobility data</a> in our model to reflect the effect of the current lockdown on the English population. We will also add data about commuting patterns in England based on the 2011 census data. Check our page on our data sources in more detail here.</p>
@@ -83,7 +83,7 @@
 </div>
 <div class="section" id="what-do-we-mean-by-uncertainty-in-this-model">
 <h3>4. What do we mean by uncertainty in this model?<a class="headerlink" href="#what-do-we-mean-by-uncertainty-in-this-model" title="Permalink to this headline">¶</a></h3>
-<p>The uncertainty of our prediction is the orange shaded area in each graph, which means that the actual value (e.g. of daily deaths) will be within the orange range with 95 percent probability.
+<p>The uncertainty of our prediction is the orange shaded area in each graph, which means that the actual value (e.g. of daily deaths) will be within the orange range with 99% probability.
 The uncertainty is due to the fact that in this model we do not estimate the exact values of the parameters of the model (e.g. how many days it takes for a person to start showing symptoms once infected, or how many days between being diagnosed and death). Instead we estimate the probabilities of different possible values being the correct one. This is a central element of the Bayesian paradigm of statistics.</p>
 <p>This uncertainty can be thought of as arising due to our inability to describe the reality perfectly by our (deterministic) model, for any choice of the values of the parameters; this is called a misspecified model. Therefore, there could be several choices of the values of the parameters which approximate the truth in a similar way.</p>
 <p>Overall, it is hard to be sure that this uncertainty is calibrated, namely that it actually describes the underlying probability of the parameters.</p>

diff --git a/docs/Model.html b/docs/Model.html
@@ -44,7 +44,7 @@
 <div class="tab-content docutils container" id="tab-tab1">
 <p class="tab-title">Description</p>
 <p>Starting with the whole population being in the <span class="math notranslate nohighlight">\(S\)</span> state (except for some individuals, who are seeding the infection), any susceptible individual becomes exposed (<span class="math notranslate nohighlight">\(E\)</span>) with probability <span class="math notranslate nohighlight">\(\beta\)</span> for each contact with an infected one. Next our model assumes that, when a patient is hospitalized and diagnosed, it is isolated and therefore not able to spread the infection. To reflect this scenario, we assume that from the exposed state and after some incubation period, all patients will become sub-clinical <span class="math notranslate nohighlight">\(I^{SC}\)</span> in which they are infectious. Afterwards some of them will recover (go to <span class="math notranslate nohighlight">\(R\)</span>) and others will need clinical help (go to <span class="math notranslate nohighlight">\(I^C\)</span>), reflected in a split of two categories: the ones directly recovering (<span class="math notranslate nohighlight">\(I^{SC2}\)</span>) and the ones needing clinical help (<span class="math notranslate nohighlight">\(I^{SC1}\)</span>). The split happens with an age-dependent probability <span class="math notranslate nohighlight">\(\rho_i\)</span>. People in <span class="math notranslate nohighlight">\(I^{SC1}\)</span> will go to hospital, therefore moving to the <span class="math notranslate nohighlight">\(I^{C}\)</span> state; similary as before, this state is split in two categories according to the final outcome: the ones in <span class="math notranslate nohighlight">\(I^{C1}\)</span> will decease (<span class="math notranslate nohighlight">\(D\)</span>) after some time, while the ones in <span class="math notranslate nohighlight">\(I^{SC2}\)</span> will recover (<span class="math notranslate nohighlight">\(R\)</span>). The split is again described by an age-dependent probability, which we denote as <span class="math notranslate nohighlight">\(\rho'_i\)</span>. The dynamics can be visualized ad follows:</p>
-<img alt="_images/SEI3RD.png" src="_images/SEI3RD.png" />
+<img alt="_images/SEI4RD.png" src="_images/SEI4RD.png" />
 <p>and is defined by the following ordinary differential equations (ODEs):</p>
 <p><span class="math notranslate nohighlight">\(\frac{dS_i}{dt} = - \beta {S_i} \sum_j C_{i,j} \frac{I^{SC}_j}{N_j}, \ I_j^{SC} = I_j^{SC1} + I_j^{SC2}\)</span></p>
 <p><span class="math notranslate nohighlight">\(\frac{dE_i}{dt} = \beta {S_i} \sum_j C_{i,j} \frac{I^{SC}_j}{N_j}  - \kappa  E_i\)</span></p>
